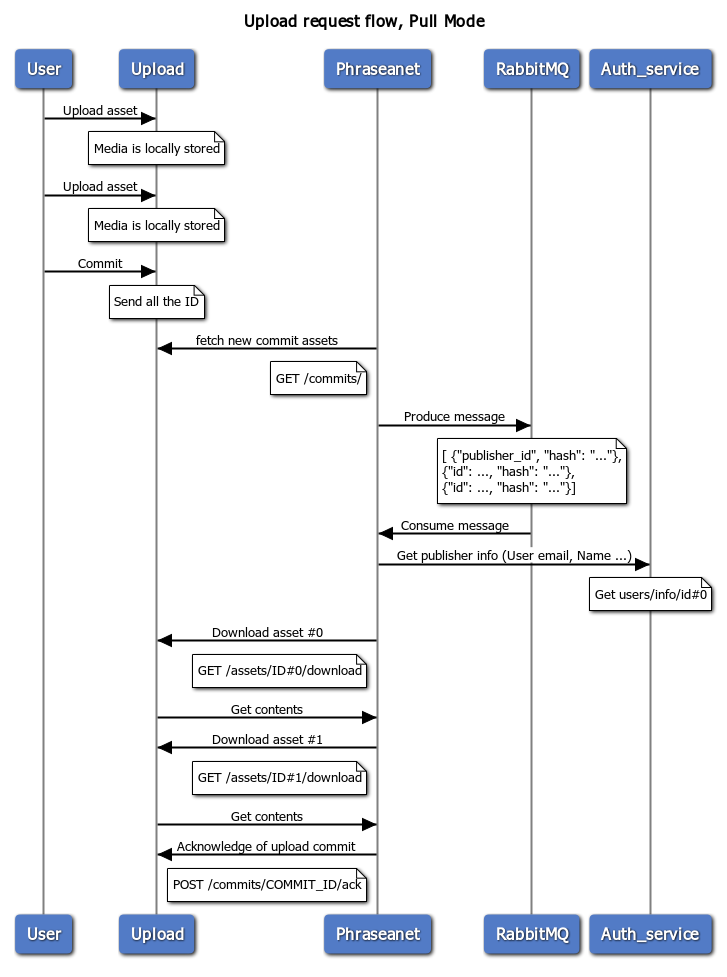
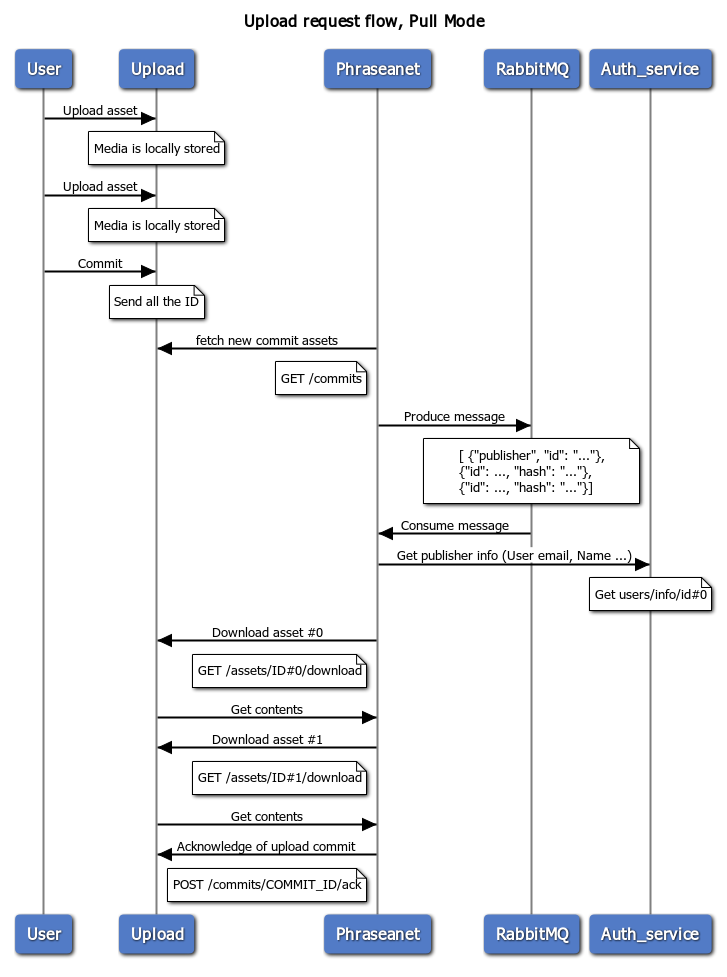
typo fix and update sheme png

Changed region(s): [[0.575, 0.4299, 0.9078, 0.522], [0.3631, 0.3685, 0.4842, 0.3992]]

diff --git a/uploader/doc/request_flow.md b/uploader/doc/request_flow.md
@@ -25,7 +25,7 @@ Upload->Phraseanet: Notify there is a new asset
 note left of Phraseanet: POST /api/v1/upload/enqueue
 Phraseanet->RabbitMQ: Produce message
 note over RabbitMQ
-    [ {"publisher_id", "hash": "..."},
+    [ {"publisher", "id": "..."},
     {"id": ..., "hash": "..."},
     {"id": ..., "hash": "..."}]
 end note
@@ -57,10 +57,10 @@ note over Upload: Media is locally stored
 User->Upload: Commit
 note over Upload: Send all the ID
 Phraseanet->Upload: fetch new commit assets
-note left of Phraseanet: GET /commits/
+note left of Phraseanet: GET /commits
 Phraseanet->RabbitMQ: Produce message
 note over RabbitMQ
-    [ {"publisher_id", "hash": "..."},
+    [ {"publisher", "id": "..."},
     {"id": ..., "hash": "..."},
     {"id": ..., "hash": "..."}]
 end note
